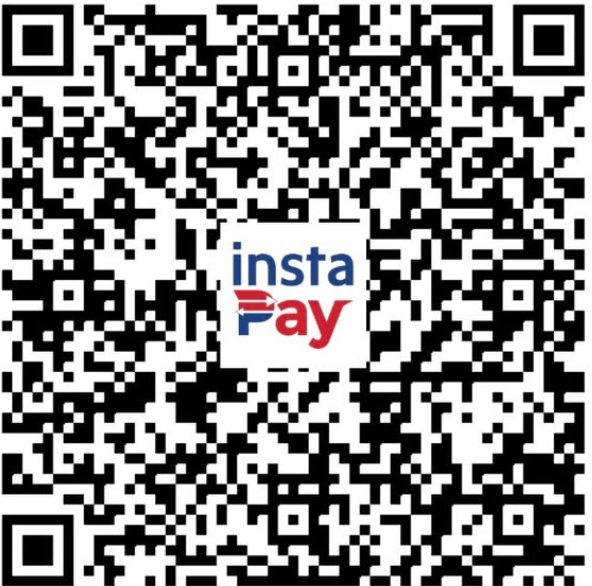
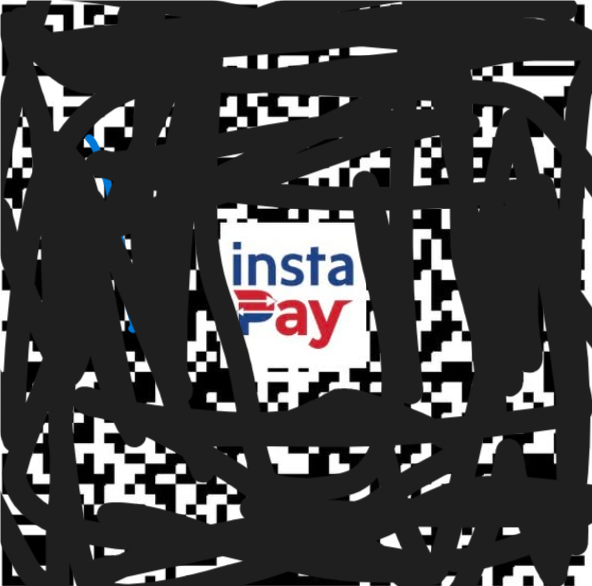
Update hero text, footer disclaimer, and payment details

diff --git a/checkout.html b/checkout.html
@@ -135,14 +135,14 @@
                                     </div>
                                     <div class="copy-row">
                                         <span>Account Name:</span>
-                                        <strong>Raven Justine Gutierrez</strong>
+                                        <strong>Hera Cythera R. Arentsvelt</strong>
                                     </div>
                                     <div class="copy-row">
                                         <span>Account No:</span>
                                         <div class="copy-input-group">
-                                            <strong id="acc-number">09215635411</strong>
+                                            <strong id="acc-number">09123456789</strong>
                                             <button type="button" class="copy-btn"
-                                                onclick="copyToClipboard('09215635411')">COPY</button>
+                                                onclick="copyToClipboard('09123456789')">COPY</button>
                                         </div>
                                     </div>
                                     <p style="font-size: 0.75rem; margin-top: 15px; opacity: 0.8;">Please save a
@@ -243,6 +243,8 @@
     <footer style="margin-top:80px;">
         <div class="container text-center" style="padding: 40px; color: var(--sage-soft); font-size: 0.8rem;">
             <p>&copy; 2025 CassNcase.</p>
+            <p style="margin-top:5px; font-size: 0.8rem; opacity: 0.7;">This website is a personal portfolio project and
+                is not an official store.</p>
         </div>
     </footer>
 

diff --git a/index.html b/index.html
@@ -88,12 +88,12 @@
         <div class="container hero-content">
             <!-- Text Column -->
             <div class="hero-text">
-                <p
-                    style="color:var(--lilac-deep); letter-spacing: 2px; text-transform:uppercase; margin-bottom:10px; font-family:var(--font-body); font-weight:700; font-size:0.8rem;">
-                    Official Book Shop
+                style="color:var(--lilac-deep); letter-spacing: 2px; text-transform:uppercase; margin-bottom:10px;
+                font-family:var(--font-body); font-weight:700; font-size:0.8rem;">
+                BOOK STORE PROTOTYPE
                 </p>
                 <h1>Welcome to CassNcase’s Bookshop 🌙</h1>
-                <p class="hero-subtitle">Stories written with love, chaos, and a little heartbreak.</p>
+                <p class="hero-subtitle">Portfolio project · Not an official store</p>
 
                 <div class="hero-buttons">
                     <a href="shop.html" class="btn btn-primary">Shop the Books</a>
@@ -202,6 +202,8 @@
             <div class="bottom-bar">
                 <p>&copy; 2025 CassNcase. All rights reserved.</p>
                 <p style="margin-top:5px; font-style:italic; opacity:0.6;">Mahal ka ni Thera.</p>
+                <p style="margin-top:5px; font-size: 0.8rem; opacity: 0.7;">This website is a personal portfolio project
+                    and is not an official store.</p>
             </div>
         </div>
     </footer>

diff --git a/success.html b/success.html
@@ -37,7 +37,9 @@
                 Thank you so much for your support <br>
                 Your book will arrive soon.
             </p>
-            <span class="signature">Mahal ka ni Thera.</span>
+            <p style="margin-top:5px; font-style:italic; opacity:0.6;">Mahal ka ni Thera.</p>
+            <p style="margin-top:5px; font-size: 0.8rem; opacity: 0.7;">This website is a personal portfolio project and
+                is not an official store.</p>
         </div>
 
         <!-- 5. Back to Home Button -->

diff --git a/product.html b/product.html
@@ -209,6 +209,8 @@
             <div class="bottom-bar">
                 <p>&copy; 2025 CassNcase. All rights reserved.</p>
                 <p style="margin-top:5px; font-style:italic; opacity:0.6;">Mahal ka ni Thera.</p>
+                <p style="margin-top:5px; font-size: 0.8rem; opacity: 0.7;">This website is a personal portfolio project
+                    and is not an official store.</p>
             </div>
         </div>
     </footer>

diff --git a/shop.html b/shop.html
@@ -121,6 +121,8 @@
     <footer>
         <div class="container text-center" style="padding: 40px; color: var(--sage-soft); font-size: 0.8rem;">
             <p>&copy; 2025 CassNcase. All rights reserved.</p>
+            <p style="margin-top:5px; font-size: 0.8rem; opacity: 0.7;">This website is a personal portfolio project and
+                is not an official store.</p>
         </div>
     </footer>
 
